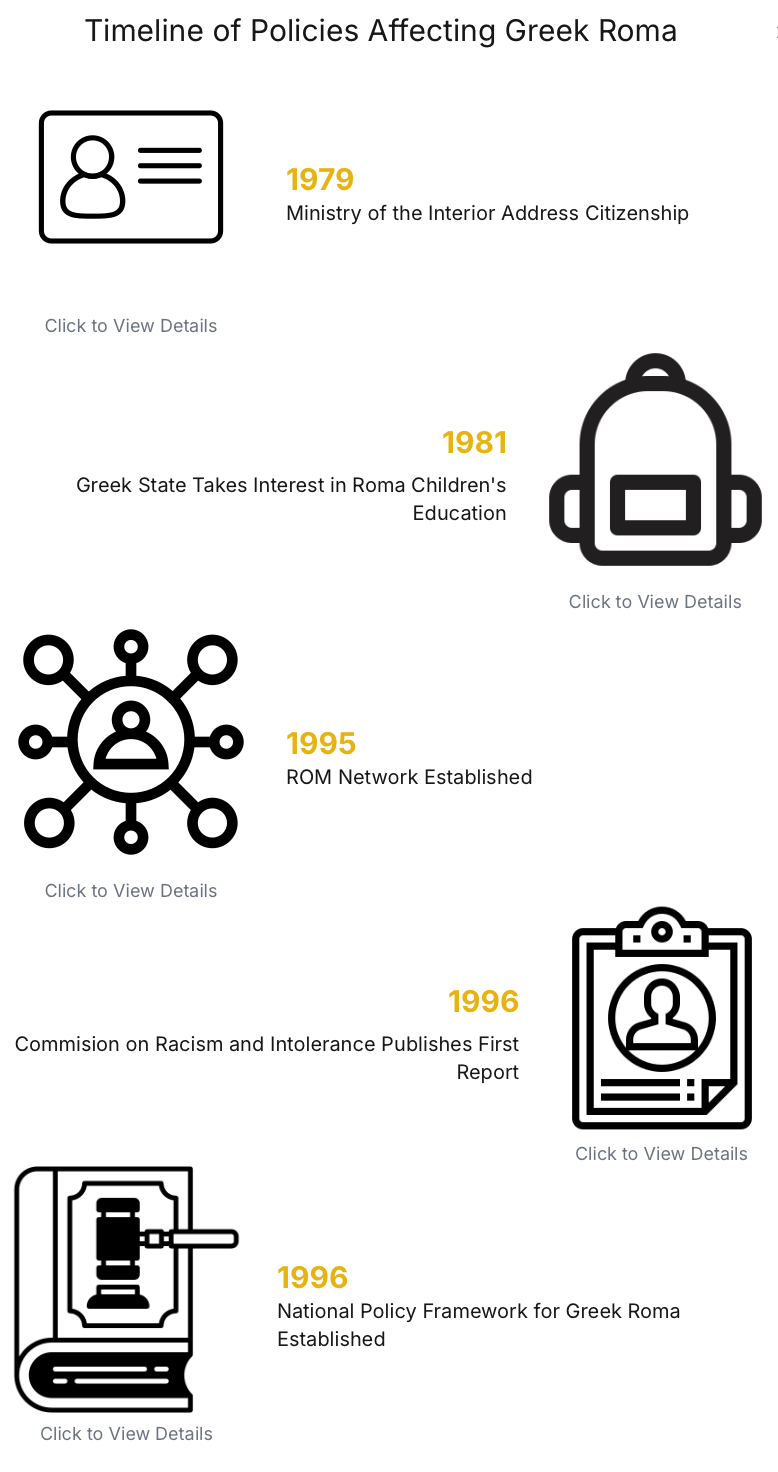
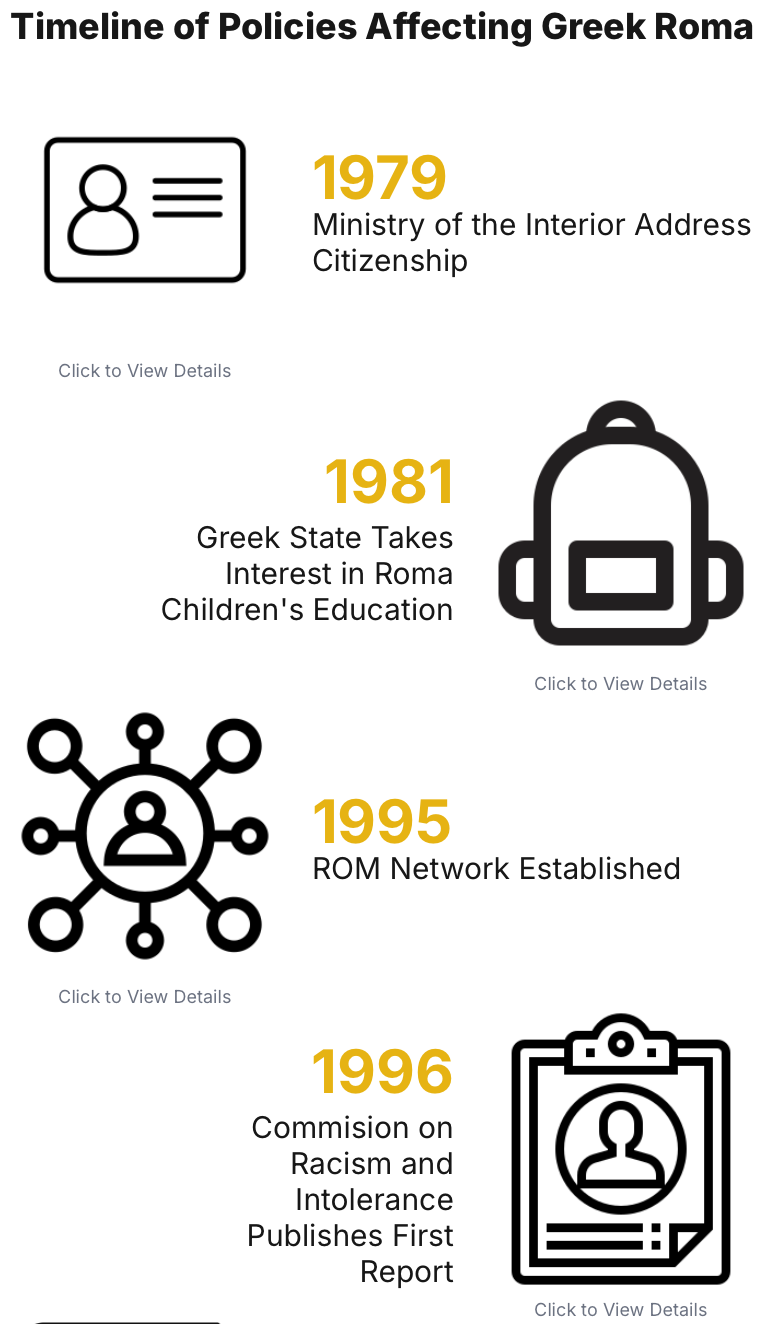
fixing translations for timeline infographic

diff --git a/src/app/components/TimelineInfographic.tsx b/src/app/components/TimelineInfographic.tsx
@@ -1,18 +1,19 @@
 import TimelineEventLeft from "../components/TimelineEventLeft";
 import TimelineEventRight from "../components/TimelineEventRight";
+import { useTranslation } from "../context/TranslationContext";
 
 export default function Home() {
+  const { t } = useTranslation();
 
   return (
     <div className="flex flex-col items-center justify-center w-full space-y-10">
       <div className="flex flex-col w-full max-w-3xl px-4 sm:px-6 md:px-8">
 
 <h1 className="text-3xl lg:text-3xl xl:text-4xl font-extrabold text-center mb-5">
-  Timeline of Policies Affecting Greek Roma
+  {t("Timeline.title")}
 </h1>
 
 <div className="flex flex-row">
-  <div className="w-2 bg-gray-700">
   </div>
   <div className="w-5">
   </div>
@@ -21,140 +22,103 @@ export default function Home() {
 <div className="flex flex-col">
   {/* Event 1  */}
 <TimelineEventLeft imageSrc="/name_badge.png" altText="outdoor scene" 
-                   date="1979" event="Ministry of the Interior Address Citizenship" 
-                   description="On March 12, 1979, the National Directorate of the Ministry of the Interior issued an order to 
-                                address the issue of so-called ‘stateless’ Roma. Despite generations lived in Greece, the majority 
-                                of Greek Roma were not considered citizens up until this point as they did not have the necessary 
-                                documentation such as birth certificates. This order began the process of providing a greater population 
-                                of Greek Roma with the rights and benefits associated with citizenship. "
+                   date="1979" event={t("Timeline.events.1979.event")}
+                   description={t("Timeline.events.1979.description")}
                     link="https://www.errc.org/roma-rights-journal/faces-of-romani-statelessness-in-greece"
-                    linkDescription="Faces of Romani Statelessness in Greece"
+                    linkDescription={t("Timeline.events.1979.linkDescription")}
                                 />
 {/* Event 2  */}
 <TimelineEventRight imageSrc="/backpack.png" altText="outdoor scene"
-                    date="1981" event="Greek State Takes Interest in Roma Children's Education" 
-                    description="example event description"
+                    date="1981" event={t("Timeline.events.1981.event")}
+                    description={t("Timeline.events.1981.description")}
                     link=""
-                    linkDescription=""
+                    linkDescription={t("Timeline.events.1981.linkDescription")}
                               />
 {/* Event 3  */}
 <TimelineEventLeft imageSrc="/network.png" altText="outdoor scene"
-                    date="1995" event="ROM Network Established" 
-                    description="Coinciding with the establishment of the Prime Minister’s Quality of Life Office, the ROM Network was a 
-                                 nationwide initiative for the integration and political participation of Greek Roma. The organization consisted 
-                                 of elected representatives from the Roma communities to serve as mediators and cooperate with Greek bureaucrats."
+                    date="1995" event={t("Timeline.events.1995.event")}
+                    description={t("Timeline.events.1995.description")}
                     link="https://www.academia.edu/100971333/A_professional_narrative_of_Roma_mediation_in_Ilion_Greece_"
-                    linkDescription="A professional narrative of Roma mediation in Ilion"
+                    linkDescription={t("Timeline.events.1995.linkDescription")}
                               />
-
-{/* Event 2  */}
-<TimelineEventRight imageSrc="/person_report_icon.png" altText="outdoor scene" 
-                    date="1996" event="Commision on Racism and Intolerance Publishes First Report" 
-                    description="The Council of Europe’s ECRI published its first report on the state of racism and intolerance in Greece 
-                                 in 1996. This report discusses legal provisions, social policies, and community relations of groups that 
-                                 they categorized as experiencing ‘otherness’. These groups included Roma, Muslim, and immigrant 
-                                 populations as vulnerable groups to be monitored. ECRI has continues to publish reports on Greece every 3-5 years."
-                    link="https://rm.coe.int/first-report-on-greece/16808b578a"
-                    linkDescription="First Report on Greece"/>
-
-{/* Event 2  */}
-<TimelineEventLeft imageSrc="/policy.png" altText="outdoor scene"
-            date="1996" event="National Policy Framework for Greek Roma Established" 
-            description="The Greek Government outlined the first comprehensive plan for addressing the multifaceted challenges faced by Greek Roma 
-                         in 1996. The state acknowledged that while the Roma people had been living in Greece for centuries, their needs were not 
-                         being met in areas including housing, education, and health. Children were provided with a ‘card for itinerant students’ 
-                         to allow their entry into any public school. Despite its impressive outline, the framework failed to accomplish the majority 
-                         of its goals in the designated timeframe. "
-            link="https://www.errc.org/roma-rights-journal/not-enough-action-government-policy-on-roma-in-greece"
-            linkDescription="Government Policy on Roma in Greece"
-                      />                   
-
-{/* Event 2  */}
-<TimelineEventRight imageSrc="/gradCap.png" altText="outdoor scene"
-            date="1997" event="University of Ioannina Begins Education Program" 
-            description="The “Education of Roma Children” project was implemented by the University of Ioannina from 1997-1999. It attempted to 
-                         combine the strategies of compulsory equal education and individualized support. Reception and support classes were 
-                         established with specialized teaching material for Roma and other disadvantaged students."
-            link="https://www.researchgate.net/publication/331080410_THE_EDUCATION_OF_ROMA_IN_GREECE"
-            linkDescription="The Education of Roma in Greece"
-                      />
-
-{/* Event 3  */}
-<TimelineEventLeft imageSrc="/plan.png" altText="outdoor scene" 
-                   date="2001" event="Greece Adopts the Integrated Action Plan" 
-                   description="In conjunction with the EU, Greece launched a comprehensive program regarding Roma welfare in 2001. 
-                                The policy lasted from 2001-2008 and focused on providing infrastructure and services for Greek Roma. 
-                                It primarily worked to develop integrated housing for improved living conditions, but also touched on education, 
-                                healthcare, and employment. As many of the policies encompassed by the plan were designed as temporary solutions, 
-                                social services were not consistent and many gaps remained."
-                   link="https://www.euromanet.eu/upload/36/58/Greek_Integrated_Action_Plan.pdf"
-                   linkDescription="Integrated Action Plan PowerPoint"/>
 
 {/* Event 4  */}
-<TimelineEventRight imageSrc="/greece_map.png" altText="outdoor scene" 
-            date="2001" event="Formal adoption of the term “Greek Roma”" 
-            description="In 2001, 46 branches of the Panhellenic Intermunicipal Network for the Support of Greek Roma (ROM Network) gather for a 
-                         conference on “Expression of the existing consciousness and self-determination of Greek Roma.” Here, the group cemented 
-                         their identity as integrally Greek and Roma. If a case arose in which they would be forced to choose between the two, they 
-                         would unanimously eliminate the Roma identifier and remain solely Greek."
-            link="https://www.humanstories.gr/en/not-only-roma-first-of-all-greeks/"
-            linkDescription="Not Only Roma"/>
+<TimelineEventRight imageSrc="/person_report_icon.png" altText="outdoor scene" 
+                    date="1996" event={t("Timeline.events.1996_1.event")}
+                    description={t("Timeline.events.1996_1.description")}
+                    link="https://rm.coe.int/first-report-on-greece/16808b578a"
+                    linkDescription={t("Timeline.events.1996_1.linkDescription")}/>
 
 {/* Event 5  */}
-<TimelineEventLeft imageSrc="/three_people.png" altText="outdoor scene" 
-                    date="2012" event="Greece Adopts the National Strategy for Social Integration of Roma" 
-                    description="As a follow-up to the 2001 Integrated Action Plan, Greece’s National Strategy was intended to comprehensively 
-                                 evaluate the situation of Greek Roma. The project’s goal was to develop a plan for long-term solutions to key 
-                                 areas of attention inclusion housing, education, employment, and health with the ultimate goal of ending the social 
-                                 exclusion of Greek Roma. The plan is broken up into short-term (2012-2016), mid-term (2016-2020), and long-term (2020+) goals. 
-                                 One major success in the short-term was an overall increase in school attendance, though a major gap was identified in preschool attendance rates."
-                    link="https://commission.europa.eu/document/download/49f81e65-2b3f-44e5-bb42-c6bd63f7af1d_en?filename=greece_national_strategy_en.pdf"
-                    linkDescription="National Strategy"/>
-
-{/* Event 2  */}
-<TimelineEventRight imageSrc="/building.png" altText="outdoor scene"
-                    date="2016" event="Community Centers Established" 
-                    description="In combination with the National Strategy, the Greek State established a network of community centers serving over 250 municipalities. 
-                                 These centers provide services including obtaining government benefits, finding employment, and navigating educational systems. A portion 
-                                 of these centers have branches specifically for Roma communities with further specialized services to promote their general social integration."
-                    link="https://www.youtube.com/watch?v=W-BodPznjBY&t=9s"
-                    linkDescription="Community Centers Video"
-                              />
-
-{/* Event 2  */}
-<TimelineEventLeft imageSrc="/jury.png" altText="outdoor scene"
-                    date="2016" event="Special Secretariat for Social Inclusion of Roma Established" 
-                    description="The Special Secretariat for Social Inclusion of Roma is a government body established under the Ministry of Labor, Social Security, and Social 
-                                 Solidarity in 2016. The agency corporates with other Ministries, Roma mediators, and private organizations to develop frameworks and establish 
-                                 policies for Roma social inclusion."
-                    link="https://rm.coe.int/eleni-kallinikou-presentation-on-roma-policy-and-justrom-in-greece/1680969c53"
-                    linkDescription="Presentation on Roma Policy"
-                              />                           
-{/* Event 2  */}
-<TimelineEventRight imageSrc="/communication.png" altText="outdoor scene"
-                    date="2020" event="Development of the National Contact Point for Social Inclusion of Roma" 
-                    description="The project “Development of the National Contact Point for Social Inclusion of Roma” or “RomPlat2019” was created by the Secretariat for Social 
-                                 Inclusion of Roma for the years 2020-2028. The project’s goal is to cultivate dialogue among Roma and non-Roma communities to establish effective 
-                                 local collaboration for implementation of Greece’s National Strategy. During this time, the Secretariat also became the EU National Contact Point 
-                                 for Roma issues in Greece."
-                    link="https://egroma.gov.gr/newsletter-1/"
-                    linkDescription="RomPlat2019 Newsletter"
-                              />
+<TimelineEventLeft imageSrc="/policy.png" altText="outdoor scene"
+            date="1996" event={t("Timeline.events.1996_2.event")}
+            description={t("Timeline.events.1996_2.description")}
+            link="https://www.errc.org/roma-rights-journal/not-enough-action-government-policy-on-roma-in-greece"
+            linkDescription={t("Timeline.events.1996_2.linkDescription")}
+                      />                   
 
 {/* Event 6  */}
+<TimelineEventRight imageSrc="/gradCap.png" altText="outdoor scene"
+            date="1997" event={t("Timeline.events.1997.event")}
+            description={t("Timeline.events.1997.description")}
+            link="https://www.researchgate.net/publication/331080410_THE_EDUCATION_OF_ROMA_IN_GREECE"
+            linkDescription={t("Timeline.events.1997.linkDescription")}
+                      />
+
+{/* Event 7  */}
+<TimelineEventLeft imageSrc="/plan.png" altText="outdoor scene" 
+                   date="2001" event={t("Timeline.events.2001_1.event")}
+                   description={t("Timeline.events.2001_1.description")}
+                   link="https://www.euromanet.eu/upload/36/58/Greek_Integrated_Action_Plan.pdf"
+                   linkDescription={t("Timeline.events.2001_1.linkDescription")}/>
+
+{/* Event 8  */}
+<TimelineEventRight imageSrc="/greece_map.png" altText="outdoor scene" 
+            date="2001" event={t("Timeline.events.2001_2.event")}
+            description={t("Timeline.events.2001_2.description")}
+            link="https://www.humanstories.gr/en/not-only-roma-first-of-all-greeks/"
+            linkDescription={t("Timeline.events.2001_2.linkDescription")}/>
+
+{/* Event 9  */}
+<TimelineEventLeft imageSrc="/three_people.png" altText="outdoor scene" 
+                    date="2012" event={t("Timeline.events.2012.event")}
+                    description={t("Timeline.events.2012.description")}
+                    link="https://commission.europa.eu/document/download/49f81e65-2b3f-44e5-bb42-c6bd63f7af1d_en?filename=greece_national_strategy_en.pdf"
+                    linkDescription={t("Timeline.events.2012.linkDescription")}/>
+
+{/* Event 10  */}
+<TimelineEventRight imageSrc="/building.png" altText="outdoor scene"
+                    date="2016" event={t("Timeline.events.2016_1.event")}
+                    description={t("Timeline.events.2016_1.description")}
+                    link="https://www.youtube.com/watch?v=W-BodPznjBY&t=9s"
+                    linkDescription={t("Timeline.events.2016_1.linkDescription")}
+                              />
+
+{/* Event 11  */}
+<TimelineEventLeft imageSrc="/jury.png" altText="outdoor scene"
+                    date="2016" event={t("Timeline.events.2016_2.event")}
+                    description={t("Timeline.events.2016_2.description")}
+                    link="https://rm.coe.int/eleni-kallinikou-presentation-on-roma-policy-and-justrom-in-greece/1680969c53"
+                    linkDescription={t("Timeline.events.2016_2.linkDescription")}
+                              />                           
+{/* Event 12  */}
+<TimelineEventRight imageSrc="/communication.png" altText="outdoor scene"
+                    date="2020" event={t("Timeline.events.2020.event")}
+                    description={t("Timeline.events.2020.description")}
+                    link="https://egroma.gov.gr/newsletter-1/"
+                    linkDescription={t("Timeline.events.2020.linkDescription")}
+                              />
+
+{/* Event 13  */}
 <TimelineEventLeft imageSrc="/document.png" altText="outdoor scene" 
-                   date="2021" event="Greece Adopts an Updated National Strategy " 
-                   description="The National Strategy and Action Plan for Roma inclusion 2021-2030 addresses similar key areas to the 2012 plan including education, discrimination, and 
-                                infrastructure. It combines targeted actions with a broader approach for more sustainable operations and connects with other national plans such 
-                                as those for gender equality and children’s rights. The new strategy also ensures the involvement of Roma community leaders and representatives."
+                   date="2021" event={t("Timeline.events.2021.event")}
+                   description={t("Timeline.events.2021.description")}
                    link="https://www.unicef.org/eca/sites/unicef.org.eca/files/2022-02/Greece%20-%20Roma%20children%2C%20multidimensional%20poverty%20and%20the%20Greek%20national%20strategy%20for%20Roma%20Inclusion.pdf "
-                   linkDescription="National Strategy and Action Plan PowerPoint"/>
+                   linkDescription={t("Timeline.events.2021.linkDescription")}/>
 
   </div>
 
 </div>
 </div>
-    </div>
-
   );
 };

diff --git a/src/app/components/TimelinePreviewCard.tsx b/src/app/components/TimelinePreviewCard.tsx
@@ -3,9 +3,13 @@
 import Image from "next/image";
 import { useState } from "react";
 import TimelineInfographic from "../components/TimelineInfographic";
+import { useTranslation } from "../context/TranslationContext";
 
 export default function TimelinePreviewCard() {
   const [isOpen, setIsOpen] = useState(false);
+  const { t, language } = useTranslation();
+  const imageSrc = language === "el" ? "/timeline_gr.png" : "/timeline.png";
+
 
   return (
     <>
@@ -15,7 +19,7 @@ export default function TimelinePreviewCard() {
         onClick={() => setIsOpen(true)}
       >
         <Image
-          src="/timeline.png"
+          src={imageSrc}
           alt="Timeline of Greek Roma Policies"
           width={700}
           height={700}
@@ -24,7 +28,7 @@ export default function TimelinePreviewCard() {
         {/* Mobile "tap to view" */}
         <div className="absolute inset-0 flex items-end justify-center md:hidden pointer-events-none z-10">
           <div className="text-black text-sm font-semibold px-4 py-2 rounded-t-md w-full text-center shadow-lg tracking-wide">
-            Tap to View
+            {t("Timeline.tapToView")}
           </div>
         </div>
       </div>

diff --git a/src/app/components/TimelineEventPopup.tsx b/src/app/components/TimelineEventPopup.tsx
@@ -1,5 +1,6 @@
 'use client'
 import { useEffect, useRef } from 'react';
+import { useTranslation } from "../context/TranslationContext";
 
 type Props = {
     isOpen: boolean;
@@ -13,6 +14,7 @@ type Props = {
 
 export default function TimelineEventPopup({ isOpen, onClose, event, date, description, link, linkDescription }: Props) {
     const popupRef = useRef<HTMLDivElement>(null);
+    const { t } = useTranslation();
 
     useEffect(() => {
         if (isOpen && popupRef.current) {
@@ -45,7 +47,7 @@ export default function TimelineEventPopup({ isOpen, onClose, event, date, descr
                     <h1 className='text-3xl font-bold text-center pb-2'>{event}</h1>
                     <h1 className='text-xl text-center text-gray-700 pb-15'>{description}</h1>
                 </div>
-                <h1 className='text-xl text-left'>Further Reading:</h1>
+                <h1 className='text-xl text-left'>{t("Timeline.furtherReading")}</h1>
                 <div className='text-blue-500 underline'>
                     <a
                         href={link}

diff --git a/src/app/components/TimelineEventLeft.tsx b/src/app/components/TimelineEventLeft.tsx
@@ -1,6 +1,7 @@
 'use client'
 import React, { useState } from 'react';
 import TimelineEventPopup from './TimelineEventPopup';
+import { useTranslation } from "../context/TranslationContext";
 
 interface TimelineEventProps {
     imageSrc: string;
@@ -20,6 +21,7 @@ const TimelineEventLeft: React.FC<TimelineEventProps> = ({
   const handleOpenPopup = () => {
     setShowDetails(true);
   };
+  const { t } = useTranslation();
 
   return (
     <div className="flex flex-row justify-start items-center w-full">
@@ -36,7 +38,7 @@ const TimelineEventLeft: React.FC<TimelineEventProps> = ({
           />
         </div>
         <div className="text-xs text-gray-500">
-          Click to View Details
+            {t("Timeline.clickToView")}
         </div>
       </div>
 

diff --git a/src/app/components/TimelineEventRight.tsx b/src/app/components/TimelineEventRight.tsx
@@ -2,6 +2,7 @@
 
 import React, { useState } from 'react';
 import TimelineEventPopup from './TimelineEventPopup';
+import { useTranslation } from "../context/TranslationContext";
 
 interface TimelineEventProps {
   imageSrc: string;
@@ -31,6 +32,7 @@ const TimelineEventRight: React.FC<TimelineEventProps> = ({
   const handleClosePopup = () => {
     setShowDetails(false);
   };
+  const { t } = useTranslation();
 
   return (
     <div className="flex flex-row justify-end items-center w-full gap-6">
@@ -56,7 +58,7 @@ const TimelineEventRight: React.FC<TimelineEventProps> = ({
           />
         </div>
         <div className="text-xs text-gray-500">
-          Click to View Details
+            {t("Timeline.clickToView")}
         </div>
       </div>
 
